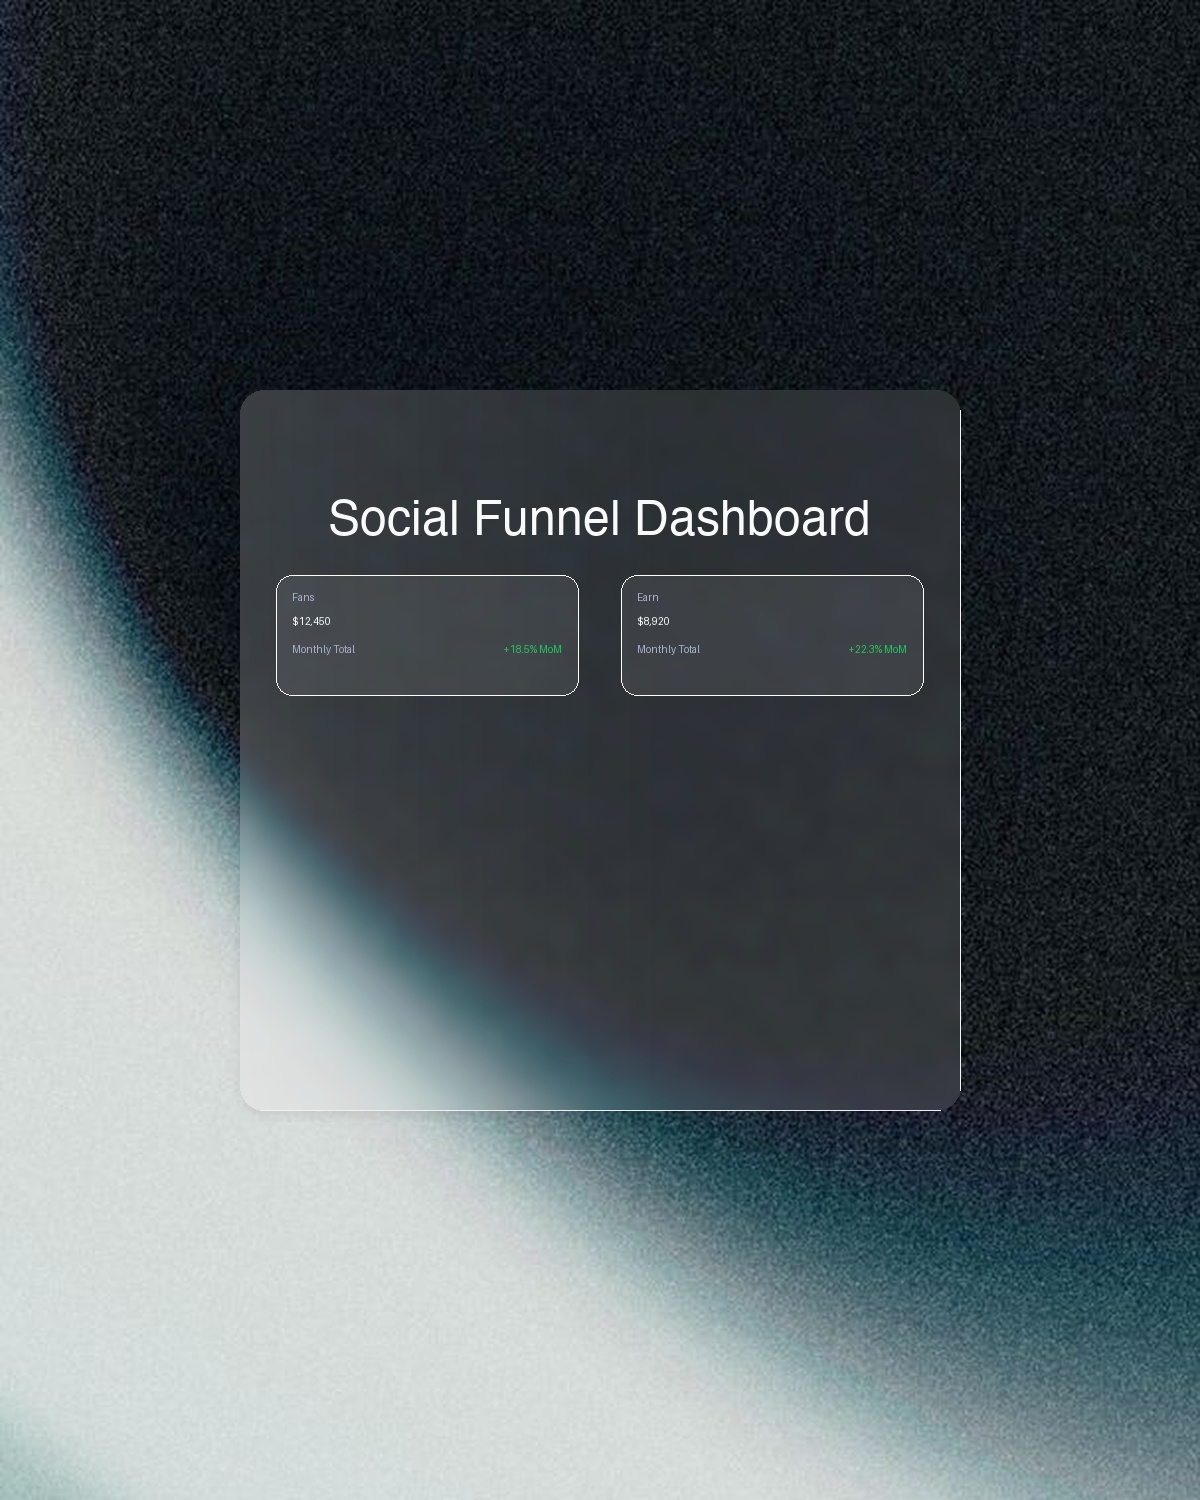
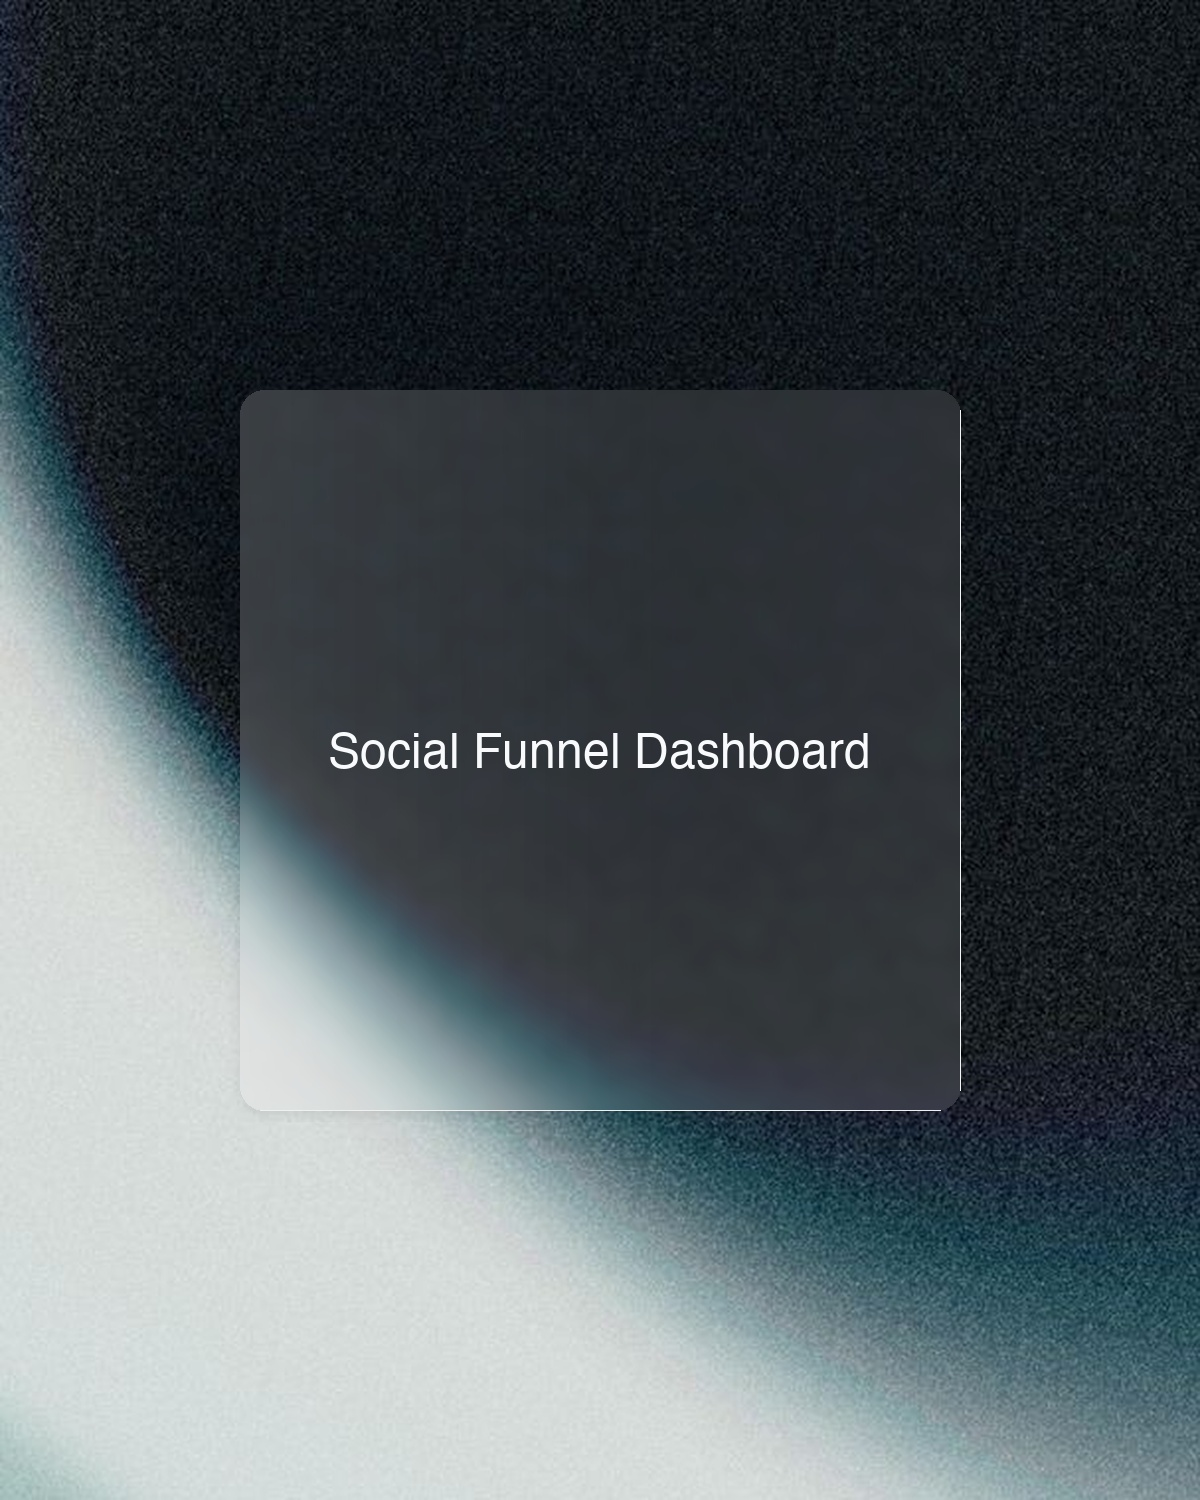
Remove mini-boxes, center Social Funnel Dashboard text

diff --git a/create_dashboard_image.py b/create_dashboard_image.py
@@ -180,115 +180,13 @@ def create_dashboard_image():
     text_width = bbox[2] - bbox[0]
     text_height = bbox[3] - bbox[1]
     
-    # Center text in container (at top)
+    # Center text in container (vertically and horizontally centered)
     text_x = container_x + (container_size - text_width) // 2
-    text_y = container_y + int(container_size * 0.15)  # Position near top
+    text_y = container_y + (container_size - text_height) // 2  # Vertically centered
     
     # Draw text (text-primary: #f8fafc)
     text_color = (248, 250, 252, 255)  # #f8fafc
     draw.text((text_x, text_y), text, font=font, fill=text_color)
-    
-    # Add mini-boxes for "Fans" and "Earn" below the text
-    # Mini-box styling: glassmorphism with rgba(255, 255, 255, 0.08), border-radius: 16px
-    mini_box_width = int(container_size * 0.42)  # Each box is about 42% of container width
-    mini_box_height = 120
-    mini_box_spacing = int(container_size * 0.06)  # 6% spacing between boxes
-    mini_box_y = text_y + text_height + 40  # Position below text
-    
-    # Calculate positions for two boxes side by side
-    total_boxes_width = (mini_box_width * 2) + mini_box_spacing
-    boxes_start_x = container_x + (container_size - total_boxes_width) // 2
-    
-    # Create mini-boxes
-    for i, (label, value, subtitle, trend) in enumerate([
-        ("Fans", "$12,450", "Monthly Total", "+18.5% MoM"),
-        ("Earn", "$8,920", "Monthly Total", "+22.3% MoM")
-    ]):
-        box_x = boxes_start_x + i * (mini_box_width + mini_box_spacing)
-        box_y = mini_box_y
-        
-        # Create mini-box with glassmorphism
-        mini_box_overlay = Image.new('RGBA', (mini_box_width, mini_box_height), (255, 255, 255, int(255 * 0.08)))
-        mini_box_blurred = base.crop((box_x, box_y, box_x + mini_box_width, box_y + mini_box_height))
-        mini_box_blurred = mini_box_blurred.filter(ImageFilter.GaussianBlur(radius=6))
-        
-        # Create mini-box mask with rounded corners (16px radius)
-        mini_mask = Image.new('L', (mini_box_width, mini_box_height), 0)
-        mini_mask_draw = ImageDraw.Draw(mini_mask)
-        mini_mask_draw.rounded_rectangle(
-            [(0, 0), (mini_box_width, mini_box_height)],
-            radius=16,
-            fill=255
-        )
-        
-        # Composite mini-box
-        mini_box_composite = Image.new('RGBA', (mini_box_width, mini_box_height), (0, 0, 0, 0))
-        mini_box_composite = Image.alpha_composite(mini_box_composite, mini_box_blurred)
-        mini_box_composite = Image.alpha_composite(mini_box_composite, mini_box_overlay)
-        mini_box_composite.putalpha(mini_mask)
-        
-        # Paste mini-box
-        base.paste(mini_box_composite, (box_x, box_y), mini_box_composite)
-        
-        # Draw border (rgba(255, 255, 255, 0.15))
-        mini_draw = ImageDraw.Draw(base)
-        mini_draw.rounded_rectangle(
-            [box_x, box_y, box_x + mini_box_width, box_y + mini_box_height],
-            radius=16,
-            outline=(255, 255, 255, int(255 * 0.15)),
-            width=1
-        )
-        
-        # Add text content to mini-box
-        # Label (smaller font)
-        label_font_size = 14
-        try:
-            label_font = ImageFont.truetype(inter_path, label_font_size) if os.path.exists(inter_path) else font
-        except:
-            label_font = ImageFont.load_default()
-        
-        label_bbox = mini_draw.textbbox((0, 0), label, font=label_font)
-        label_text_width = label_bbox[2] - label_bbox[0]
-        label_x = box_x + 16  # Padding
-        label_y = box_y + 16
-        mini_draw.text((label_x, label_y), label, font=label_font, fill=(168, 178, 209, 255))  # #a8b2d1 (text-muted)
-        
-        # Value (larger, bold)
-        value_font_size = 28
-        try:
-            value_font = ImageFont.truetype(inter_path, value_font_size) if os.path.exists(inter_path) else font
-        except:
-            value_font = ImageFont.load_default()
-        
-        value_bbox = mini_draw.textbbox((0, 0), value, font=value_font)
-        value_text_width = value_bbox[2] - value_bbox[0]
-        value_x = box_x + 16
-        value_y = label_y + 24
-        mini_draw.text((value_x, value_y), value, font=value_font, fill=text_color)
-        
-        # Subtitle
-        subtitle_font_size = 12
-        try:
-            subtitle_font = ImageFont.truetype(inter_path, subtitle_font_size) if os.path.exists(inter_path) else font
-        except:
-            subtitle_font = ImageFont.load_default()
-        
-        subtitle_x = box_x + 16
-        subtitle_y = value_y + 28
-        mini_draw.text((subtitle_x, subtitle_y), subtitle, font=subtitle_font, fill=(168, 178, 209, 255))
-        
-        # Trend (green for up)
-        trend_font_size = 12
-        try:
-            trend_font = ImageFont.truetype(inter_path, trend_font_size) if os.path.exists(inter_path) else font
-        except:
-            trend_font = ImageFont.load_default()
-        
-        trend_bbox = mini_draw.textbbox((0, 0), trend, font=trend_font)
-        trend_text_width = trend_bbox[2] - trend_bbox[0]
-        trend_x = box_x + mini_box_width - trend_text_width - 16
-        trend_y = subtitle_y
-        mini_draw.text((trend_x, trend_y), trend, font=trend_font, fill=(34, 197, 94, 255))  # #22c55e (success green)
     
     # Convert back to RGB for JPEG
     final_image = base.convert('RGB')
